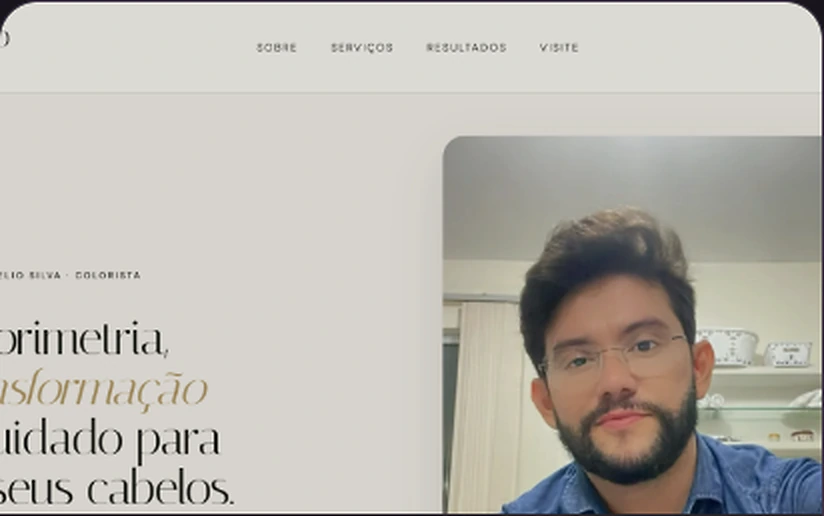
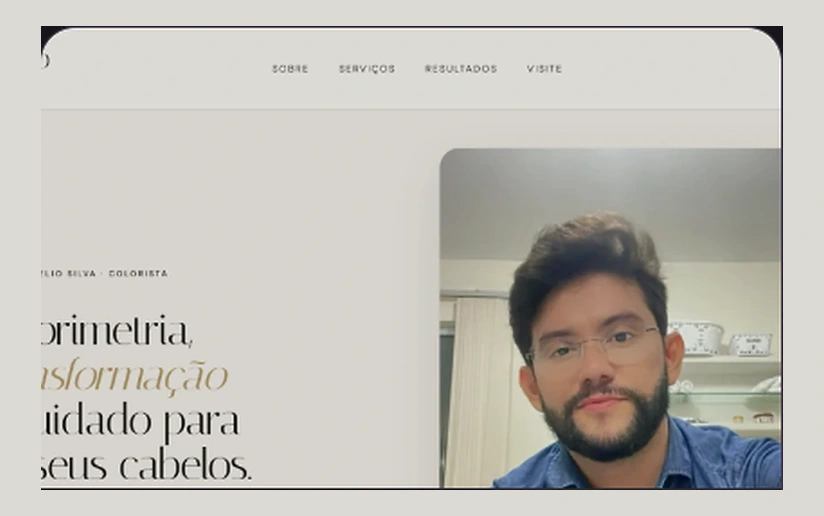
atualizando portfolio

Changed region(s): [[0.0, 0.0, 1.0, 1.0], [0.5158, 0.2481, 0.7585, 0.5271], [0.0, 0.5271, 0.2124, 0.5581]]

diff --git a/styles.css b/styles.css
@@ -4210,3 +4210,18 @@ button:focus-visible{
 
 /* O fallback permanece atrás da imagem apenas como segurança,
    sem participar visualmente quando o asset local carrega. */
+
+
+/* ======================================================
+   V34.28 — ENQUADRAMENTO JUCELIO
+   Preview local com mais respiro, sem sensação de zoom.
+   ====================================================== */
+
+.jucelio-card-preview{
+  background:#deddd6;
+}
+
+.jucelio-card-preview .jucelio-site-shot{
+  object-fit:cover !important;
+  object-position:center center !important;
+}
